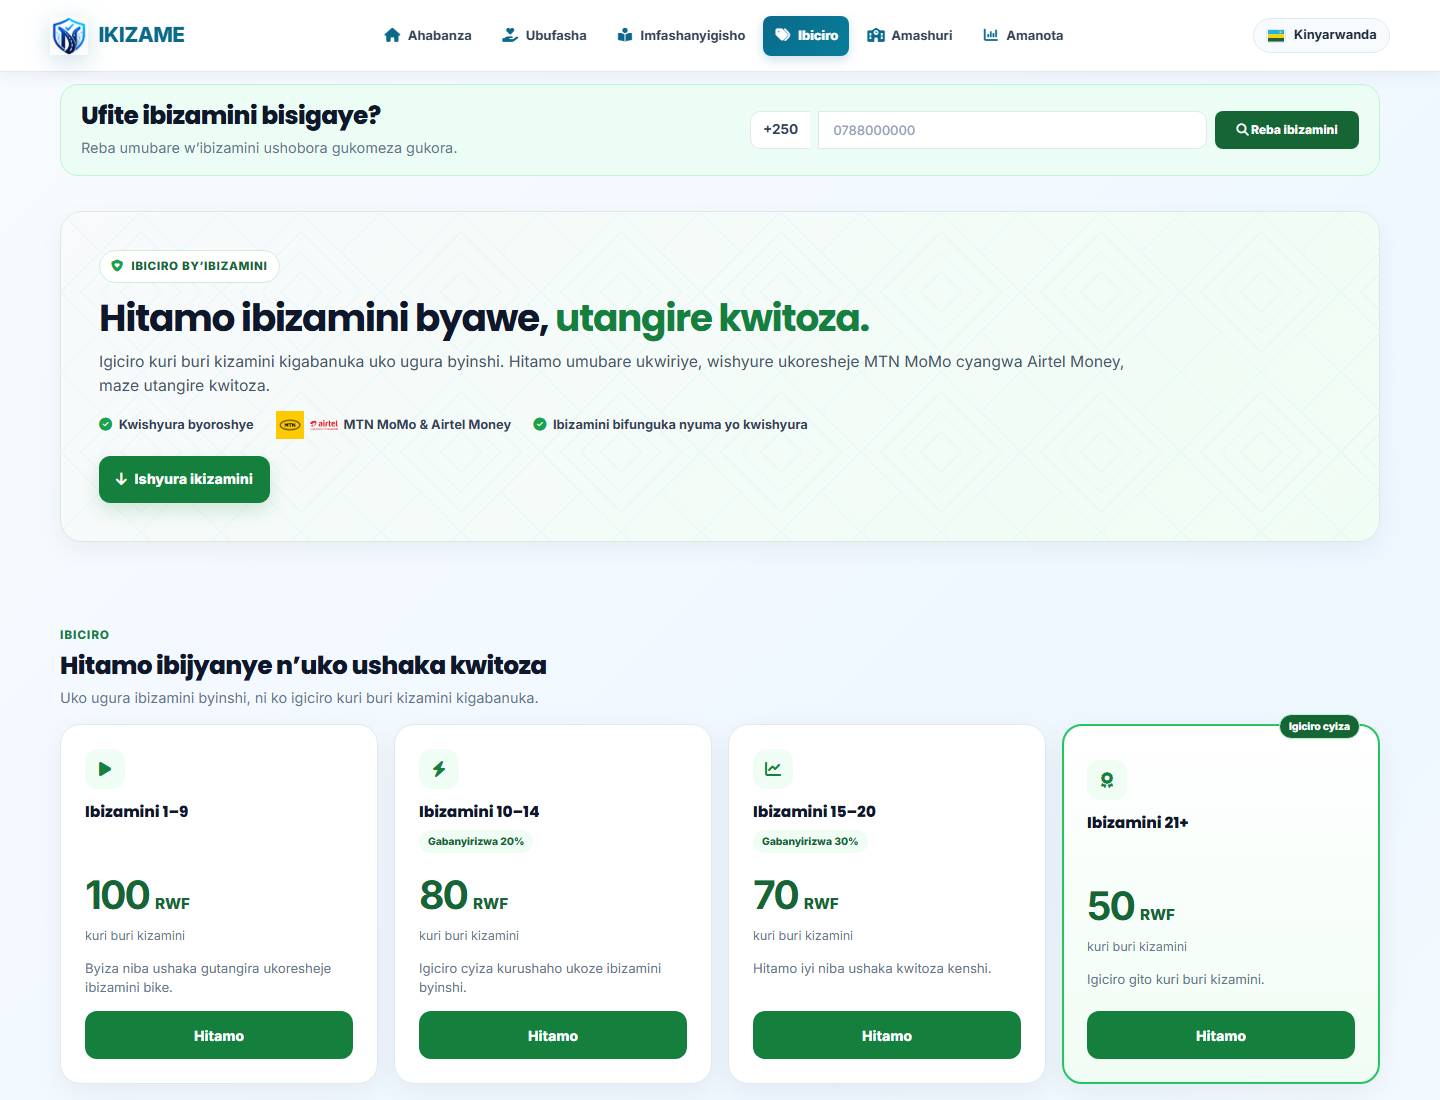
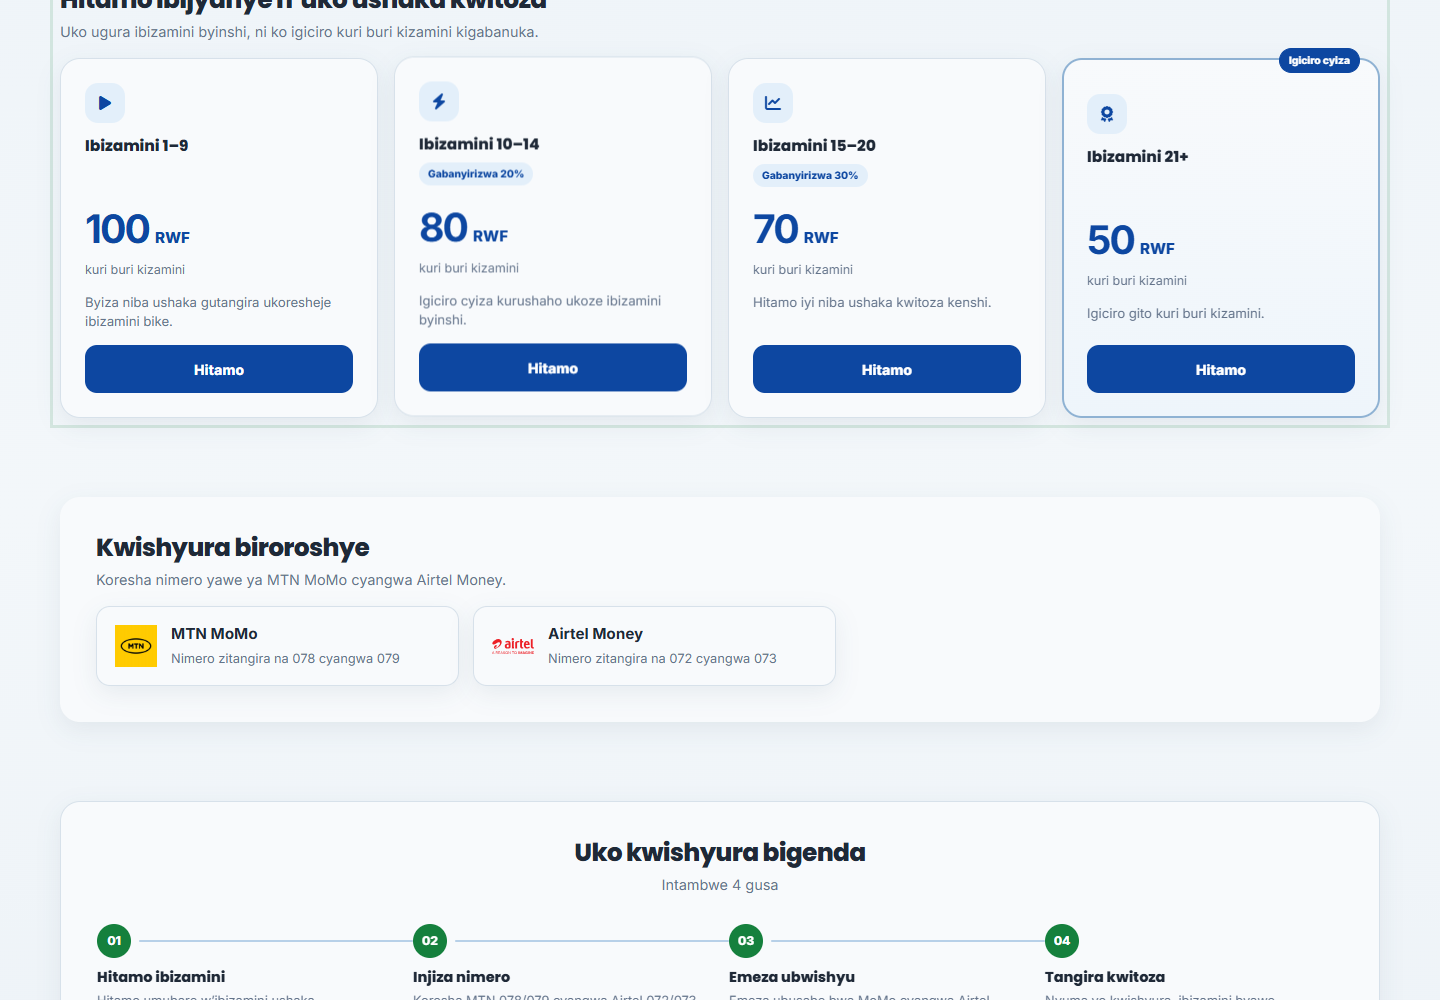
Add browser payment UX validation

diff --git a/scripts/browser-payment-ux-check.js b/scripts/browser-payment-ux-check.js
@@ -1,0 +1,149 @@
+/*
+ * Local, mock-only visual and interaction check for the public payment UI.
+ * Run with NODE_PATH pointing at a temporary playwright-core installation.
+ */
+const assert = require('node:assert/strict');
+const http = require('node:http');
+const fs = require('node:fs');
+const path = require('node:path');
+const { chromium } = require('playwright-core');
+
+const root = path.join(__dirname, '..');
+const edgePath = process.env.EDGE_PATH || 'C:\\Program Files (x86)\\Microsoft\\Edge\\Application\\msedge.exe';
+const docs = path.join(root, 'docs');
+
+function serveStatic(req, res) {
+  const rawPath = new URL(req.url, 'http://127.0.0.1').pathname;
+  const relativePath = rawPath === '/' ? 'public/index.html' : path.join('public', decodeURIComponent(rawPath));
+  const filename = path.resolve(root, relativePath);
+  if (!filename.startsWith(path.resolve(root, 'public') + path.sep)) {
+    res.writeHead(403).end();
+    return;
+  }
+  fs.readFile(filename, (error, content) => {
+    if (error) return res.writeHead(404).end();
+    const ext = path.extname(filename);
+    const type = ext === '.html' ? 'text/html' : ext === '.css' ? 'text/css' : ext === '.js' ? 'application/javascript' : 'application/octet-stream';
+    res.writeHead(200, { 'Content-Type': type }).end(content);
+  });
+}
+
+async function newPaymentPage(browser, status = 'PENDING', acceleratePolling = false) {
+  const page = await browser.newPage({ viewport: { width: 390, height: 900 } });
+  if (acceleratePolling) {
+    await page.addInitScript(() => {
+      const nativeSetInterval = window.setInterval;
+      window.setInterval = (callback, delay, ...args) => nativeSetInterval(callback, delay === 2000 ? 1 : delay, ...args);
+    });
+  }
+  let pushes = 0;
+  await page.route('**/api/payments/momo-push', route => {
+    pushes += 1;
+    route.fulfill({ contentType: 'application/json', body: JSON.stringify({ success: true, referenceId: 'mock-pending-reference' }) });
+  });
+  await page.route('**/api/payments/verify/mock-pending-reference', route => {
+    route.fulfill({ contentType: 'application/json', body: JSON.stringify({ status }) });
+  });
+  await page.goto(`${baseUrl}/ibiciro.html`, { waitUntil: 'domcontentloaded' });
+  return { page, pushes: () => pushes };
+}
+
+let baseUrl;
+
+async function main() {
+  const server = http.createServer(serveStatic);
+  await new Promise(resolve => server.listen(0, '127.0.0.1', resolve));
+  baseUrl = `http://127.0.0.1:${server.address().port}`;
+  const browser = await chromium.launch({ executablePath: edgePath, headless: true });
+
+  try {
+    for (const pathname of ['/', '/about.html', '/terms.html', '/ibiciro.html']) {
+      for (const width of [320, 360, 390, 768, 1440]) {
+        console.log(`Checking ${pathname} at ${width}px`);
+        const page = await browser.newPage({ viewport: { width, height: 900 } });
+        await page.goto(`${baseUrl}${pathname}`, { waitUntil: 'domcontentloaded' });
+        await page.waitForTimeout(100);
+        const dimensions = await page.evaluate(() => ({ scrollWidth: document.documentElement.scrollWidth, viewportWidth: window.innerWidth }));
+        assert.ok(dimensions.scrollWidth <= dimensions.viewportWidth, `${pathname} overflows at ${width}px: ${dimensions.scrollWidth}/${dimensions.viewportWidth}`);
+        await page.close();
+      }
+    }
+
+    const jump = await newPaymentPage(browser);
+    await jump.page.getByRole('button', { name: 'Ishyura ikizamini' }).click();
+    await expectFocused(jump.page, '#pricingOptions');
+    await jump.page.screenshot({ path: path.join(docs, 'payment-ux-mobile.png'), fullPage: false });
+    await jump.page.setViewportSize({ width: 1440, height: 1000 });
+    await jump.page.screenshot({ path: path.join(docs, 'payment-ux-desktop.png'), fullPage: false });
+    await jump.page.close();
+
+    const pending = await newPaymentPage(browser);
+    await pending.page.locator('.btn-pay-trigger').first().click();
+    await pending.page.locator('#momoPhoneNumberInput').fill('0788000000');
+    await pending.page.evaluate(() => window.sanitizeMomoPhone());
+    await pending.page.locator('#momoSubmitPaymentBtn').click();
+    await pending.page.waitForTimeout(50);
+    await pending.page.locator('.pay-modal-close').click();
+    await pending.page.locator('.btn-pay-trigger').nth(1).click();
+    await assertText(pending.page, '#paymentStatusMessage', 'ubusabe bwo kwishyura bukiri gutegerejwe');
+    assert.equal(await pending.pushes(), 1, 'reopening a pending checkout must not make another push');
+    assert.equal(await pending.page.locator('#momoSubmitPaymentBtn').isDisabled(), true);
+    assert.equal(await pending.page.locator('#momoPhoneNumberInput').inputValue(), '0788000000');
+    await pending.page.screenshot({ path: path.join(docs, 'payment-ux-pending.png'), fullPage: false });
+    await pending.page.close();
+
+    const invalid = await newPaymentPage(browser);
+    await invalid.page.locator('.btn-pay-trigger').first().click();
+    await invalid.page.evaluate(() => window.dispatchAdaptivePaymentQueryPacket());
+    await assertText(invalid.page, '#paymentStatusMessage', 'Andika nimero ya telefone yuzuye');
+    assert.equal(await invalid.pushes(), 0, 'invalid form must not make a push');
+    await invalid.page.screenshot({ path: path.join(docs, 'payment-ux-error.png'), fullPage: false });
+    await invalid.page.close();
+
+    const success = await newPaymentPage(browser, 'SUCCESS');
+    await success.page.locator('.btn-pay-trigger').first().click();
+    await success.page.locator('#momoPhoneNumberInput').fill('0788000000');
+    await success.page.evaluate(() => window.sanitizeMomoPhone());
+    await success.page.locator('#momoSubmitPaymentBtn').click();
+    await success.page.waitForTimeout(2200);
+    assert.equal(await success.page.locator('#customBrandedSuccessAlertBoxModal').evaluate(el => getComputedStyle(el).display), 'flex');
+    await success.page.screenshot({ path: path.join(docs, 'payment-ux-success.png'), fullPage: false });
+    await success.page.close();
+
+    const failure = await newPaymentPage(browser, 'FAILED');
+    await failure.page.locator('.btn-pay-trigger').first().click();
+    await failure.page.locator('#momoPhoneNumberInput').fill('0788000000');
+    await failure.page.evaluate(() => window.sanitizeMomoPhone());
+    await failure.page.locator('#momoSubmitPaymentBtn').click();
+    await failure.page.waitForTimeout(2200);
+    await assertText(failure.page, '#paymentStatusMessage', 'Kwishyura ntabwo kwemejwe');
+    await failure.page.close();
+
+    const timeout = await newPaymentPage(browser, 'PENDING', true);
+    await timeout.page.locator('.btn-pay-trigger').first().click();
+    await timeout.page.locator('#momoPhoneNumberInput').fill('0788000000');
+    await timeout.page.evaluate(() => window.sanitizeMomoPhone());
+    await timeout.page.locator('#momoSubmitPaymentBtn').click();
+    await timeout.page.waitForTimeout(700);
+    await assertText(timeout.page, '#paymentStatusMessage', 'Igihe urubuga rwategereje cyarangiye');
+    assert.equal(await timeout.pushes(), 1, 'timeout recovery must not create a second push');
+    await timeout.page.close();
+
+    console.log('BROWSER_PAYMENT_UX_CHECK=PASS');
+  } finally {
+    await browser.close();
+    await new Promise(resolve => server.close(resolve));
+  }
+}
+
+async function assertText(page, selector, text) {
+  await page.locator(selector).waitFor();
+  assert.match(await page.locator(selector).textContent(), new RegExp(text, 'i'));
+}
+
+async function expectFocused(page, selector) {
+  await page.waitForTimeout(50);
+  assert.equal(await page.locator(selector).evaluate(element => document.activeElement === element), true);
+}
+
+main().catch(error => { console.error(error); process.exitCode = 1; });

diff --git a/public/ibiciro.html b/public/ibiciro.html
@@ -891,7 +891,7 @@
                     <i class="fa-solid fa-circle-info" style="color:#0369a1;font-size:1rem;flex-shrink:0;"></i>
                     <span style="font-size:0.82rem;color:#475569;font-weight:600;line-height:1.5;">Ubu ushobora gutangira ikizamini ukoresheje nimero yawe ya telefone. Murakoze gukoresha IKIZAME!</span>
                 </div>
-                <button onclick="handleCustomAlertBoxConfirmationRedirect()" style="background:linear-gradient(135deg,#0b698b 0%,#0ea5e9 100%);color:#fff;border:none;padding:15px;width:100%;border-radius:14px;font-size:1rem;font-weight:800;cursor:pointer;display:flex;align-items:center;justify-content:center;gap:9px;box-shadow:0 10px 28px rgba(11,105,139,0.32);font-family:inherit;transition:transform .15s,filter .15s;letter-spacing:.1px;" onmouseover="this.style.transform='translateY(-2px)';this.style.filter='brightness(1.08)'" onmouseout="this.style.transform='none';this.style.filter='none'">
+                <button onclick="handleCustomAlertBoxConfirmationRedirect()" style="background:linear-gradient(135deg,#15803d 0%,#16a34a 100%);color:#fff;border:none;padding:15px;width:100%;border-radius:14px;font-size:1rem;font-weight:800;cursor:pointer;display:flex;align-items:center;justify-content:center;gap:9px;box-shadow:0 10px 28px rgba(21,128,61,0.28);font-family:inherit;transition:transform .15s,filter .15s;letter-spacing:.1px;" onmouseover="this.style.transform='translateY(-2px)';this.style.filter='brightness(1.08)'" onmouseout="this.style.transform='none';this.style.filter='none'">
                     <i class="fa-solid fa-rocket"></i> Tangira Ikizamini Ubu!
                 </button>
             </div>

diff --git a/docs/payment-ux-validation.md b/docs/payment-ux-validation.md
@@ -8,6 +8,12 @@ This change is presentation-only. It does not alter PayPack endpoints, prices, r
 
 ![Mobile pricing and payment entry point](payment-ux-mobile.png)
 
+![Mocked payment success confirmation](payment-ux-success.png)
+
+![Mocked pending checkout reopened without a second request](payment-ux-pending.png)
+
+![Inline validation error in the compact checkout](payment-ux-error.png)
+
 ## Manual visual checklist
 
 - [x] Desktop pricing shows the existing four tiers, provider information, and the new payment jump action.
@@ -17,6 +23,7 @@ This change is presentation-only. It does not alter PayPack endpoints, prices, r
 - [x] Checkout errors stay in the form, announce through an ARIA live region, can be dismissed, and move focus without trapping it.
 - [x] Browser timeout and network ambiguity say to wait/check the balance rather than to pay again.
 - [x] A mocked pending reference survives checkout close/reopen, retains the entered values, and makes no second provider request.
+- [x] Mocked provider success shows the confirmation card; mocked failure remains in the checkout; accelerated timeout recovery keeps the request pending without another submission.
 - [x] The payment jump scrolls and focuses the existing price section without selecting a tier or starting checkout.
 
 ## Automated checks
@@ -24,5 +31,7 @@ This change is presentation-only. It does not alter PayPack endpoints, prices, r
 `npm test` — 46 passing tests.
 
 `npm audit --omit=dev --audit-level=high` — zero vulnerabilities.
+
+`node scripts/browser-payment-ux-check.js` (with a temporary local `playwright-core` install) — passes the Home, About, Terms, and Pricing pages at 320, 360, 390, 768, and 1440px. It uses local static files and intercepted API responses only.
 
 The payment interactions in the checks are local HTML/JS mocks and static assertions; no PayPack request or live payment is initiated.
